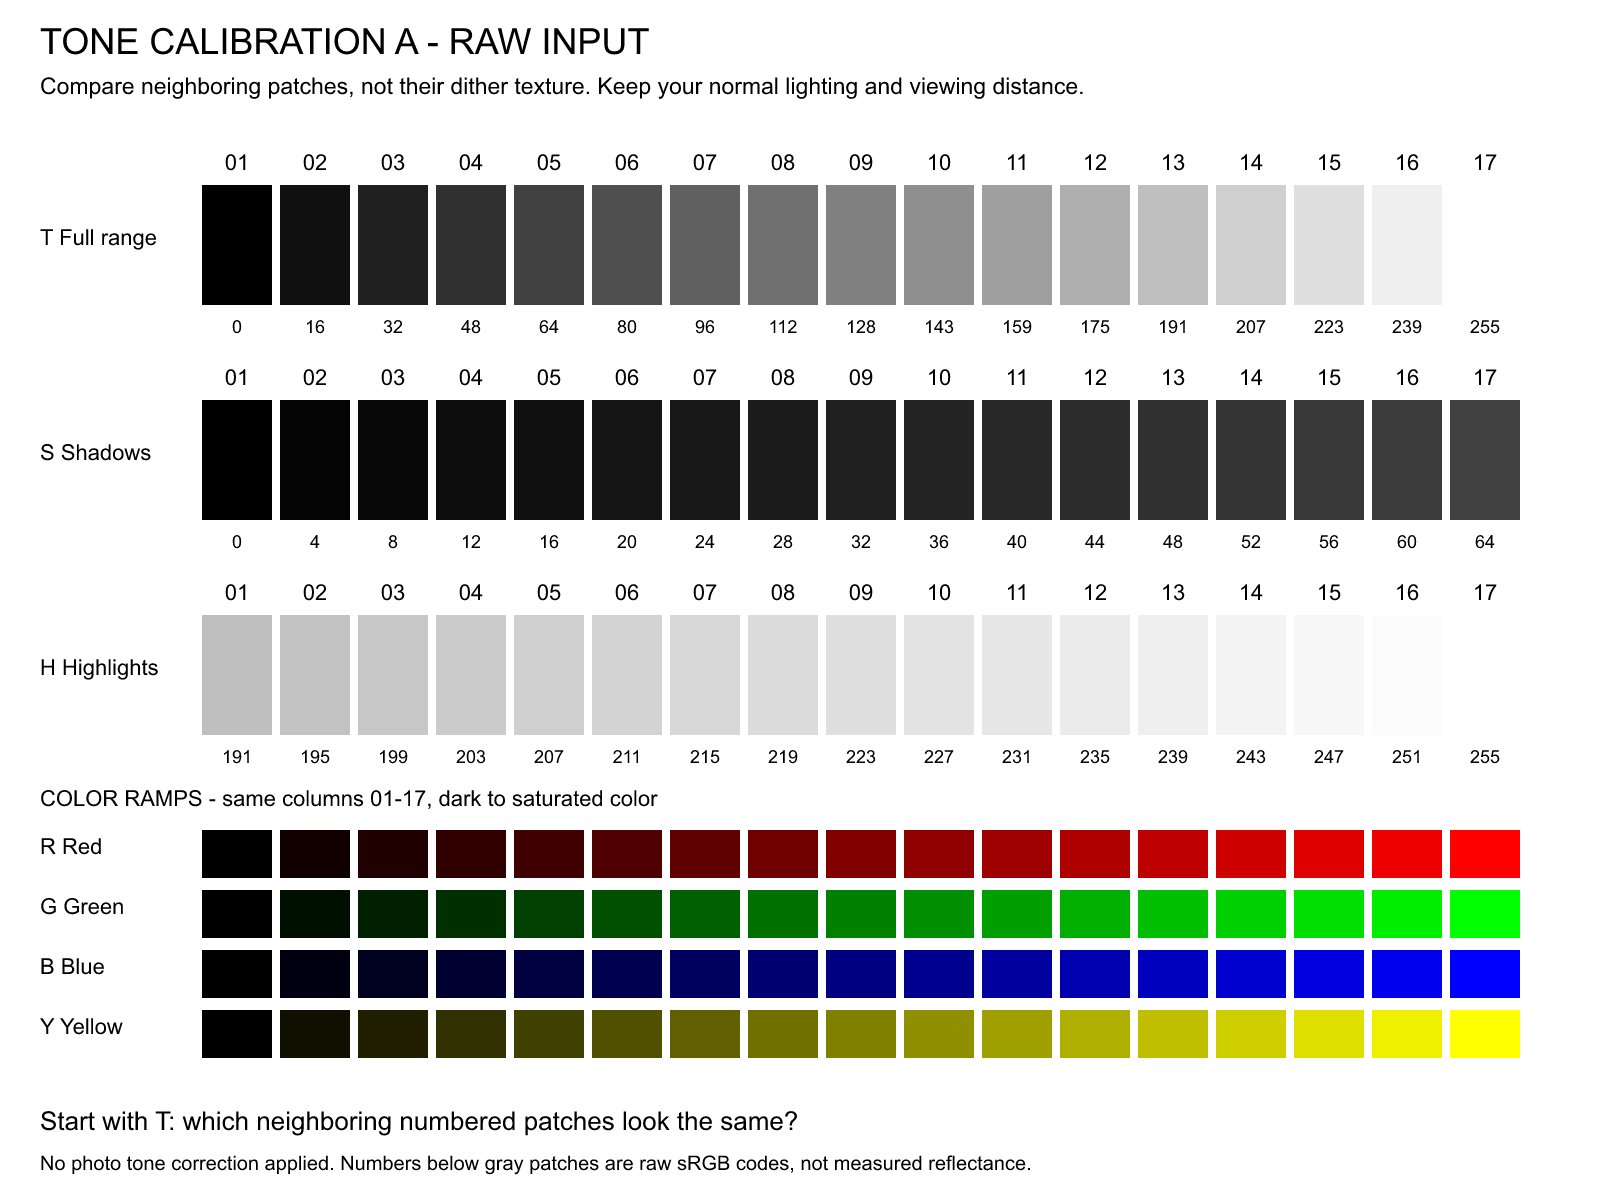
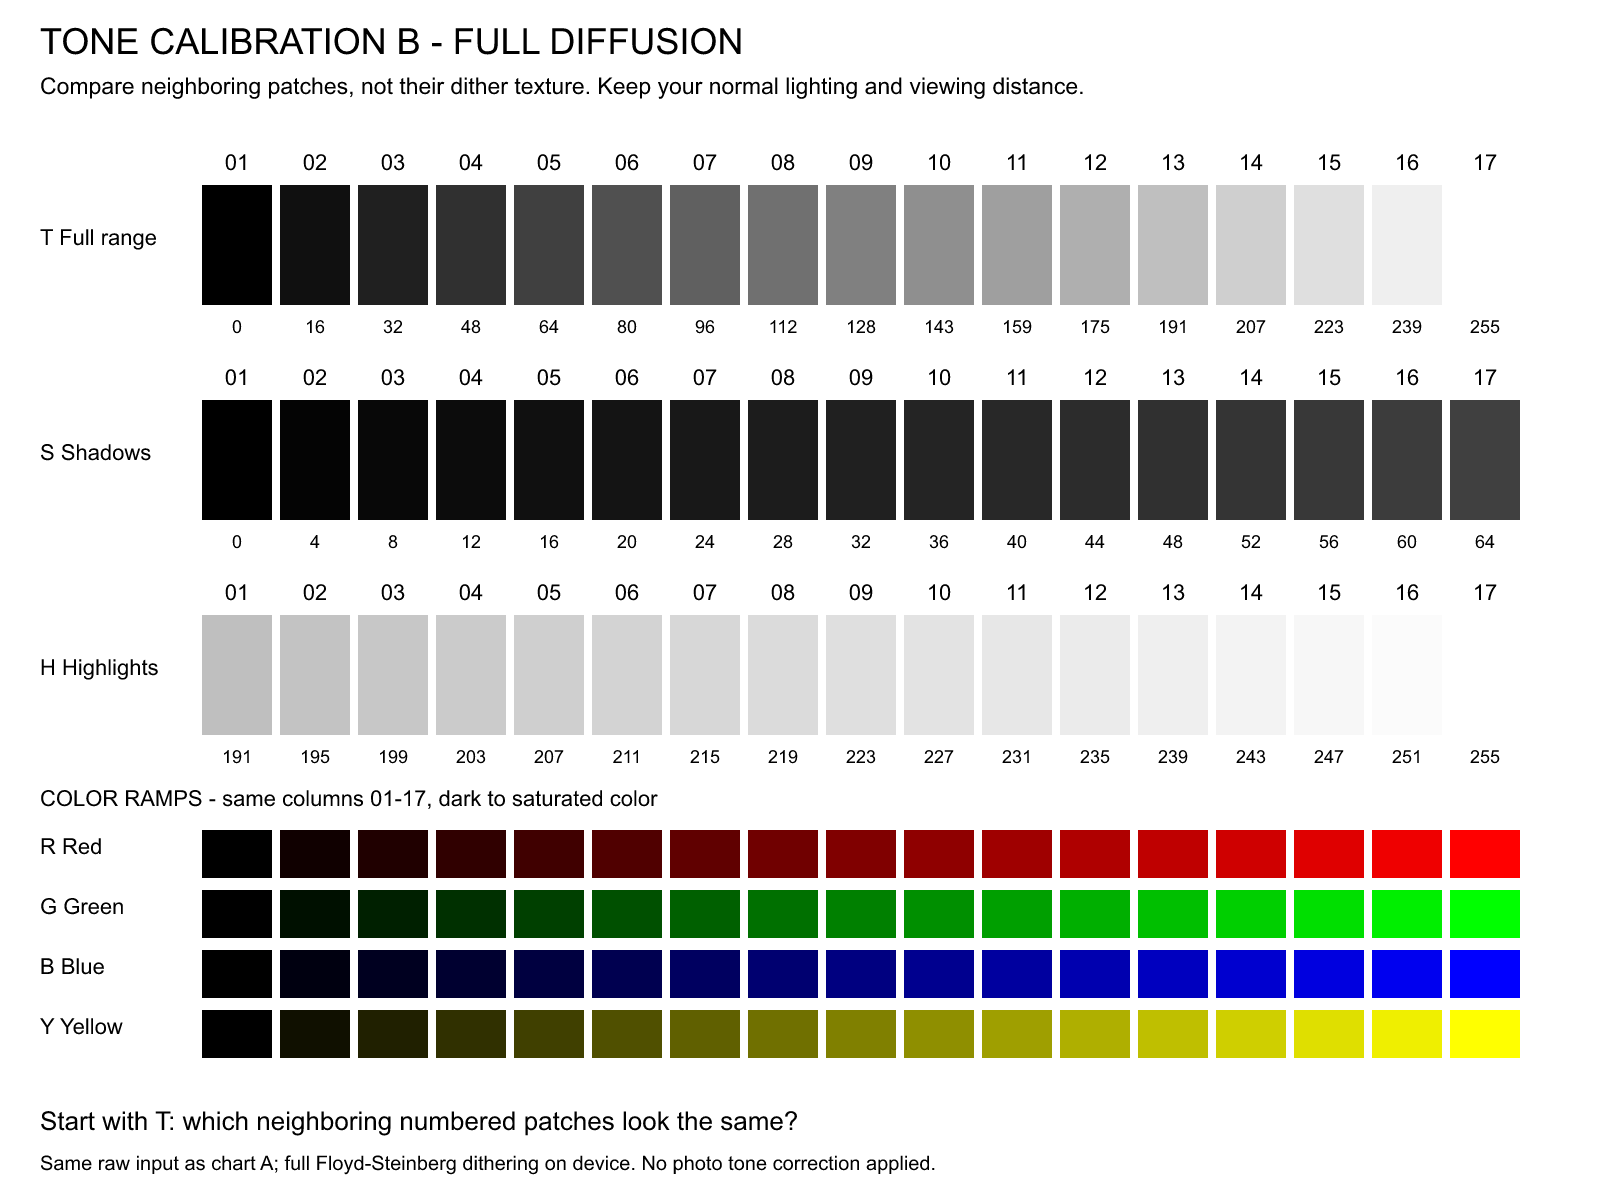
Compare full error diffusion before fitting the display tone curve

Changed region(s): [[0.0312, 0.9558, 0.625, 0.9867], [0.25, 0.0, 0.4688, 0.0617]]

diff --git a/firmware/README.md b/firmware/README.md
@@ -16,11 +16,11 @@ Tone settings are applied server-side before the device dithers the photo into t
 
 ## Interactive calibration
 
-`/frame/calibration.png` shows unadjusted sRGB ramps through the same PNG decoder and dithering used for photos: T (full range, 0–255), S (shadows, 0–64), H (highlights, 191–255), and red/green/blue/yellow ramps. Compare neighboring numbered patch interiors at the normal viewing distance and lighting, not individual dither dots. Human comparisons guide empirical tuning; they are not reflectance measurements.
+`/frame/calibration.png` shows unadjusted sRGB ramps through the same PNG decoder used for photos: T (full range, 0–255), S (shadows, 0–64), H (highlights, 191–255), and red/green/blue/yellow ramps. Compare neighboring numbered patch interiors at the normal viewing distance and lighting, not individual dither dots. Human comparisons guide empirical tuning; they are not reflectance measurements. Chart B uses full Floyd–Steinberg dithering in calibration firmware only, instead of the library's default ReducedDiffusion. Normal photo firmware remains unchanged pending comparison. Findings and observations are recorded in [calibration-notes.md](calibration-notes.md).
 
 Compile with `--build-property compiler.cpp.extra_flags=-DPHOTO_FRAME_CALIBRATION` into a separate build directory and upload to temporarily show the chart instead of random photos. On success, calibration firmware deep-sleeps without a timer, retaining the chart. Reset reloads the chart; it does **not** resume random photos. To resume the 30-minute photo cycle, upload the normal firmware built without that flag.
 
-The original normal build is preserved at `/tmp/cutedogs-tools/firmware-build` during this session, and the calibration build is separate at `/tmp/cutedogs-tools/calibration-build`.
+The original normal build is preserved at `/tmp/cutedogs-tools/firmware-build` during this session, and the active chart-B calibration build is separate at `/tmp/cutedogs-tools/calibration-full-diffusion-build`.
 
 The chart generator uses an isolated rendering dependency, never the website's frontend dependencies:
 

diff --git a/firmware/calibration-notes.md b/firmware/calibration-notes.md
@@ -1,0 +1,21 @@
+# Interactive tone calibration
+
+## Chart A — 2026-10-01 Pacific time
+
+Raw sRGB input, native InkplateLibrary 11.2.0 default `ReducedDiffusion`, usual viewing conditions.
+
+User observations:
+- T01–05 (codes 0, 16, 32, 48, 64): nearly identical.
+- T13–17 (codes 191, 207, 223, 239, 255): identical.
+- T05 differs from T06 (64 → 80); T12 differs from T13 (175 → 191).
+- S01–17 (0–64): nearly identical.
+- H01–17 (191–255): identical.
+- Red, green, blue and yellow ramps broadly behave like T.
+
+The installed library's `ImageColor::begin()` explicitly selects `ReducedDiffusion`. Its kernel weights sum to 11 and divisor is 26, retaining only about 42% of error. This intentionally posterizes the image. For a constant neutral patch, ignoring finite-patch effects and integer rounding, that weak feedback predicts near-flat extremes below roughly 74 and above roughly 181. The user's transition intervals bracket those values. Therefore the observations should not yet be treated as physical panel tone limits.
+
+## Chart B — full error diffusion
+
+Same 51 gray patch inputs and the same color ramps. Calibration firmware explicitly selects `ImageColor::FloydSteinberg`, whose kernel weights sum to its divisor (16/16). No photo gamma/contrast adjustment is applied to the chart. Normal photo firmware is unchanged pending comparison.
+
+Next comparison: are T01–05 and T13–17 distinguishable now? Then inspect fine S/H ramps and compare perceived spacing of T midtones. Decide whether to enable full diffusion for photos before fitting any tone curve.
